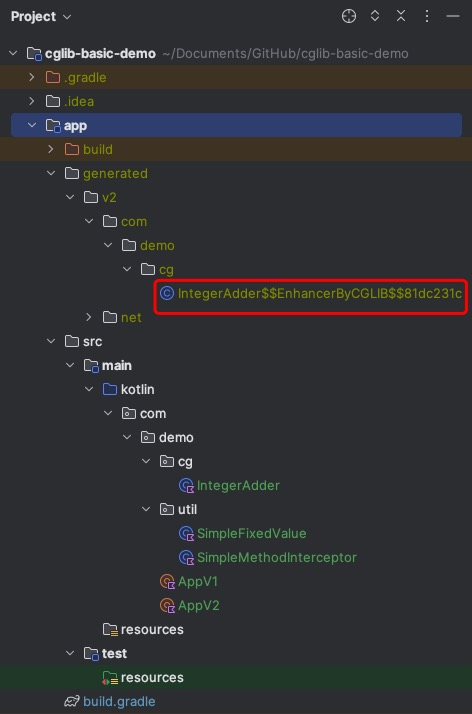
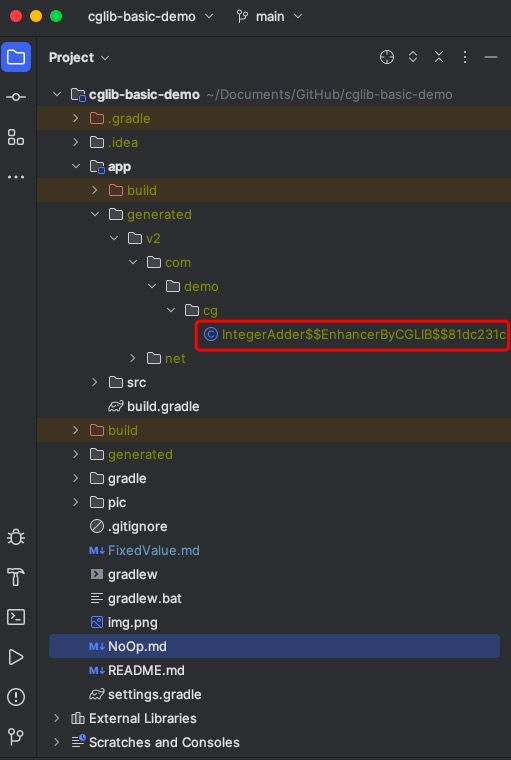
add more doc

diff --git a/app/src/main/kotlin/com/demo/AppV3.kt b/app/src/main/kotlin/com/demo/AppV3.kt
@@ -1,0 +1,23 @@
+package com.demo
+
+import com.demo.cg.IntegerAdder
+import com.demo.util.SimpleFixedValue
+import net.sf.cglib.core.DebuggingClassWriter
+import net.sf.cglib.proxy.Enhancer
+
+object AppV3 {
+
+    private const val FIXED_VALUE = 42
+
+    private const val OUTPUT_DIR = "./generated/v3"
+
+    @JvmStatic
+    fun main(args: Array<String>) {
+        System.setProperty(DebuggingClassWriter.DEBUG_LOCATION_PROPERTY, OUTPUT_DIR)
+        val fixedValue = SimpleFixedValue(FIXED_VALUE)
+        val calculator =
+            Enhancer.create(IntegerAdder::class.java, fixedValue) as IntegerAdder
+        val result = calculator.add(1, 2)
+        println("result: $result")
+    }
+}

diff --git a/app/src/main/kotlin/com/demo/util/SimpleFixedValue.kt b/app/src/main/kotlin/com/demo/util/SimpleFixedValue.kt
@@ -1,7 +1,9 @@
 package com.demo.util
 
-class SimpleFixedValue(private val value: Int) : net.sf.cglib.proxy.FixedValue {
-    override fun loadObject(): Any {
+import net.sf.cglib.proxy.FixedValue
+
+class SimpleFixedValue(private val value: Int) : FixedValue {
+    override fun loadObject(): Int {
         return value
     }
 }

diff --git a/app/src/main/kotlin/com/demo/cg/IntegerAdder.kt b/app/src/main/kotlin/com/demo/cg/IntegerAdder.kt
@@ -1,7 +1,7 @@
 package com.demo.cg
 
 open class IntegerAdder {
-    fun add(a: Int, b: Int): Int {
+    open fun add(a: Int, b: Int): Int {
         return a + b
     }
 }

diff --git a/FixedValue.md b/FixedValue.md
@@ -1,22 +1,6 @@
 # cglib-basic-demo
 
-## Step 1: Write some code for `IntegerAdder`
-
-Let's write code for `IntegerAdder`.
-This `class` can calculate the sum of two integer parameters.
-
-```java
-public class IntegerAdder {
-    public int add(int a, int b) {
-        return a + b;
-    }
-}
-```
-
-Its complete code is in
-[IntegerAdder.java](app/src/main/java/com/demo/cg/IntegerAdder.java)
-
-## Step 2: Create a class that implements `FixedValue` interface
+## Step 4: Create a class that implements `FixedValue` interface
 
 To make the code easier to understand,
 I will create a specific `class`, 
@@ -24,53 +8,228 @@ i.e. `SimpleFixedValue` that implements `FixedValue` interface.
 
 Its main logic is as follows
 
-```java
-public class SimpleFixedValue implements FixedValue {
-
-    private final int value;
-
-    public SimpleFixedValue(int value) {
-        this.value = value;
-    }
-
-    @Override
-    public Object loadObject() {
-        return value;
+```kotlin
+class SimpleFixedValue(private val value: Int) : FixedValue {
+    override fun loadObject(): Int {
+        return value
     }
 }
 ```
 
-Its full code is in [SimpleFixedValue.java](app/src/main/java/com/demo/util/SimpleFixedValue.java)
+Its full code is in [SimpleFixedValue.kt](app/src/main/kotlin/com/demo/util/SimpleFixedValue.kt)
 
-## Step 3: Use `Enhancer` to generate a child class for `IntegerAdder`
+
+## Step 5: Use `Enhancer` to generate a child class for `IntegerAdder`
 
 Now we can use `Enhancer` in `cglib` to create a child `class` for `IntegerAdder`.
 
-```java
-public class AppV1 {
+```kotlin
+object AppV3 {
 
-    private static final int VALUE = 9876;
+    private const val FIXED_VALUE = 42
 
-    public static void main(String[] args) {
-        FixedValue fixedValue = new SimpleFixedValue(VALUE);
+    private const val OUTPUT_DIR = "./generated/v3"
 
-        IntegerAdder calculator =
-                (IntegerAdder) Enhancer.create(IntegerAdder.class, fixedValue);
-
-        int result = calculator.add(1, 2);
-        System.out.println("result: " + result);
+    @JvmStatic
+    fun main(args: Array<String>) {
+        System.setProperty(DebuggingClassWriter.DEBUG_LOCATION_PROPERTY, OUTPUT_DIR)
+        val fixedValue = SimpleFixedValue(FIXED_VALUE)
+        val calculator =
+            Enhancer.create(IntegerAdder::class.java, fixedValue) as IntegerAdder
+        val result = calculator.add(1, 2)
+        println("result: $result")
     }
 }
 ```
 
+
 Its complete code for is in
-[AppV1.java](app/src/main/java/com/demo/AppV1.java)
+[AppV3.kt](app/src/main/kotlin/com/demo/AppV3.kt)
 
-Then we can run `main` method in `AppV1`.
-I am using java `8`, the configuration for running `main` method in `AppV1` can be seen in the following picture.
-![config](pic/AppV1.png)
+Let's execute the following command to run the `main` method in `AppV3`.
 
-The result is as follows
-![result](pic/v1/result.png)
+```bash
+gradle -PmainClass=com.demo.AppV3 :app:run
+```
 
+The result is as follows.
+![result.png](pic/v3/result.png)
+
+The child class will be saved into a local file.
+
+![child.png](pic/v3/child.png)
+
+
+With the help of [IntelliJ IDEA](https://www.jetbrains.com/idea/),
+we can see the decompiled result as follows.
+```java
+//
+// Source code recreated from a .class file by IntelliJ IDEA
+// (powered by FernFlower decompiler)
+//
+
+package com.demo.cg;
+
+import net.sf.cglib.proxy.Callback;
+import net.sf.cglib.proxy.Factory;
+import net.sf.cglib.proxy.FixedValue;
+
+public class IntegerAdder$$EnhancerByCGLIB$$eefed20f extends IntegerAdder implements Factory {
+    private boolean CGLIB$BOUND;
+    public static Object CGLIB$FACTORY_DATA;
+    private static final ThreadLocal CGLIB$THREAD_CALLBACKS;
+    private static final Callback[] CGLIB$STATIC_CALLBACKS;
+    private FixedValue CGLIB$CALLBACK_0;
+    private static Object CGLIB$CALLBACK_FILTER;
+
+    static void CGLIB$STATICHOOK1() {
+        CGLIB$THREAD_CALLBACKS = new ThreadLocal();
+    }
+
+    public final int add(int var1, int var2) {
+        FixedValue var10000 = this.CGLIB$CALLBACK_0;
+        if (var10000 == null) {
+            CGLIB$BIND_CALLBACKS(this);
+            var10000 = this.CGLIB$CALLBACK_0;
+        }
+
+        Object var3 = var10000.loadObject();
+        return var3 == null ? 0 : ((Number)var3).intValue();
+    }
+
+    public final boolean equals(Object var1) {
+        FixedValue var10000 = this.CGLIB$CALLBACK_0;
+        if (var10000 == null) {
+            CGLIB$BIND_CALLBACKS(this);
+            var10000 = this.CGLIB$CALLBACK_0;
+        }
+
+        Object var2 = var10000.loadObject();
+        return var2 == null ? false : (Boolean)var2;
+    }
+
+    public final String toString() {
+        FixedValue var10000 = this.CGLIB$CALLBACK_0;
+        if (var10000 == null) {
+            CGLIB$BIND_CALLBACKS(this);
+            var10000 = this.CGLIB$CALLBACK_0;
+        }
+
+        return (String)var10000.loadObject();
+    }
+
+    public final int hashCode() {
+        FixedValue var10000 = this.CGLIB$CALLBACK_0;
+        if (var10000 == null) {
+            CGLIB$BIND_CALLBACKS(this);
+            var10000 = this.CGLIB$CALLBACK_0;
+        }
+
+        Object var1 = var10000.loadObject();
+        return var1 == null ? 0 : ((Number)var1).intValue();
+    }
+
+    protected final Object clone() throws CloneNotSupportedException {
+        FixedValue var10000 = this.CGLIB$CALLBACK_0;
+        if (var10000 == null) {
+            CGLIB$BIND_CALLBACKS(this);
+            var10000 = this.CGLIB$CALLBACK_0;
+        }
+
+        return var10000.loadObject();
+    }
+
+    public IntegerAdder$$EnhancerByCGLIB$$eefed20f() {
+        CGLIB$BIND_CALLBACKS(this);
+    }
+
+    public static void CGLIB$SET_THREAD_CALLBACKS(Callback[] var0) {
+        CGLIB$THREAD_CALLBACKS.set(var0);
+    }
+
+    public static void CGLIB$SET_STATIC_CALLBACKS(Callback[] var0) {
+        CGLIB$STATIC_CALLBACKS = var0;
+    }
+
+    private static final void CGLIB$BIND_CALLBACKS(Object var0) {
+        IntegerAdder$$EnhancerByCGLIB$$eefed20f var1 = (IntegerAdder$$EnhancerByCGLIB$$eefed20f)var0;
+        if (!var1.CGLIB$BOUND) {
+            var1.CGLIB$BOUND = true;
+            Object var10000 = CGLIB$THREAD_CALLBACKS.get();
+            if (var10000 == null) {
+                var10000 = CGLIB$STATIC_CALLBACKS;
+                if (var10000 == null) {
+                    return;
+                }
+            }
+
+            var1.CGLIB$CALLBACK_0 = (FixedValue)((Callback[])var10000)[0];
+        }
+
+    }
+
+    public Object newInstance(Callback[] var1) {
+        CGLIB$SET_THREAD_CALLBACKS(var1);
+        IntegerAdder$$EnhancerByCGLIB$$eefed20f var10000 = new IntegerAdder$$EnhancerByCGLIB$$eefed20f();
+        CGLIB$SET_THREAD_CALLBACKS((Callback[])null);
+        return var10000;
+    }
+
+    public Object newInstance(Callback var1) {
+        CGLIB$SET_THREAD_CALLBACKS(new Callback[]{var1});
+        IntegerAdder$$EnhancerByCGLIB$$eefed20f var10000 = new IntegerAdder$$EnhancerByCGLIB$$eefed20f();
+        CGLIB$SET_THREAD_CALLBACKS((Callback[])null);
+        return var10000;
+    }
+
+    public Object newInstance(Class[] var1, Object[] var2, Callback[] var3) {
+        CGLIB$SET_THREAD_CALLBACKS(var3);
+        IntegerAdder$$EnhancerByCGLIB$$eefed20f var10000 = new IntegerAdder$$EnhancerByCGLIB$$eefed20f;
+        switch (var1.length) {
+            case 0:
+                var10000.<init>();
+                CGLIB$SET_THREAD_CALLBACKS((Callback[])null);
+                return var10000;
+            default:
+                throw new IllegalArgumentException("Constructor not found");
+        }
+    }
+
+    public Callback getCallback(int var1) {
+        CGLIB$BIND_CALLBACKS(this);
+        FixedValue var10000;
+        switch (var1) {
+            case 0:
+                var10000 = this.CGLIB$CALLBACK_0;
+                break;
+            default:
+                var10000 = null;
+        }
+
+        return var10000;
+    }
+
+    public void setCallback(int var1, Callback var2) {
+        switch (var1) {
+            case 0:
+                this.CGLIB$CALLBACK_0 = (FixedValue)var2;
+            default:
+        }
+    }
+
+    public Callback[] getCallbacks() {
+        CGLIB$BIND_CALLBACKS(this);
+        return new Callback[]{this.CGLIB$CALLBACK_0};
+    }
+
+    public void setCallbacks(Callback[] var1) {
+        this.CGLIB$CALLBACK_0 = (FixedValue)var1[0];
+    }
+
+    static {
+        CGLIB$STATICHOOK1();
+    }
+}
+
+```
 

diff --git a/NoOp.md b/NoOp.md
@@ -7,7 +7,7 @@ This `class` can calculate the sum of two integer parameters.
 
 ```kotlin
 open class IntegerAdder {
-    fun add(a: Int, b: Int): Int {
+    open fun add(a: Int, b: Int): Int {
         return a + b
     }
 }
@@ -44,14 +44,14 @@ gradle -PmainClass=com.demo.AppV1 :app:run
 ```
 
 The result is as follows
-![result](pic/v1/result.png)
+![result.png](pic/v1/result.png)
 
-## Step 3: That does the child class look like?
+## Step 3: What does the child class look like?
 In step 2, `Enhancer` helps us create a child class for `IntegerAdder`.
 But what does this child class look like?
 The following line can dump the child class inside a specified path.
 ```kotlin
-System.setProperty(DebuggingClassWriter.DEBUG_LOCATION_PROPERTY, OUTPUT_DIR)
+System.setProperty(DebuggingClassWriter.DEBUG_LOCATION_PROPERTY, "${some specified path}")
 ```
 
 Since I don't want to change the code in `AppV1`, 
@@ -201,7 +201,6 @@ public class IntegerAdder$$EnhancerByCGLIB$$81dc231c extends IntegerAdder implem
         CGLIB$STATICHOOK1();
     }
 }
-
 ```
 
 We can that there is no `override` version for the `add` method in this child class.
